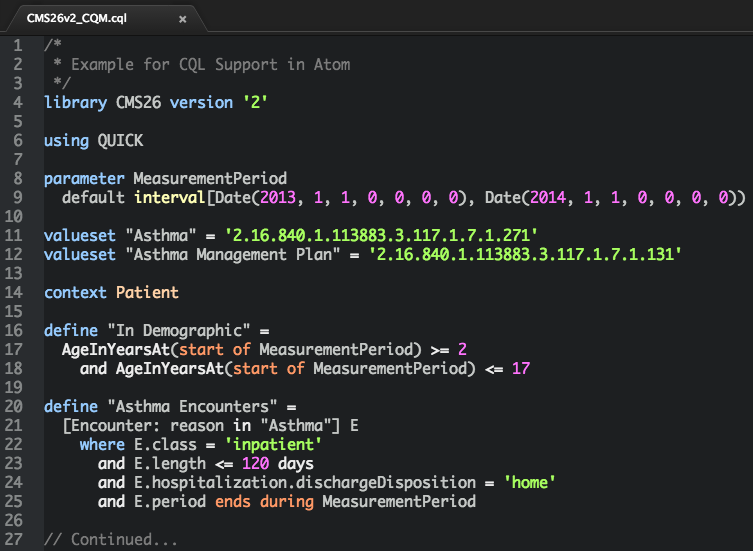
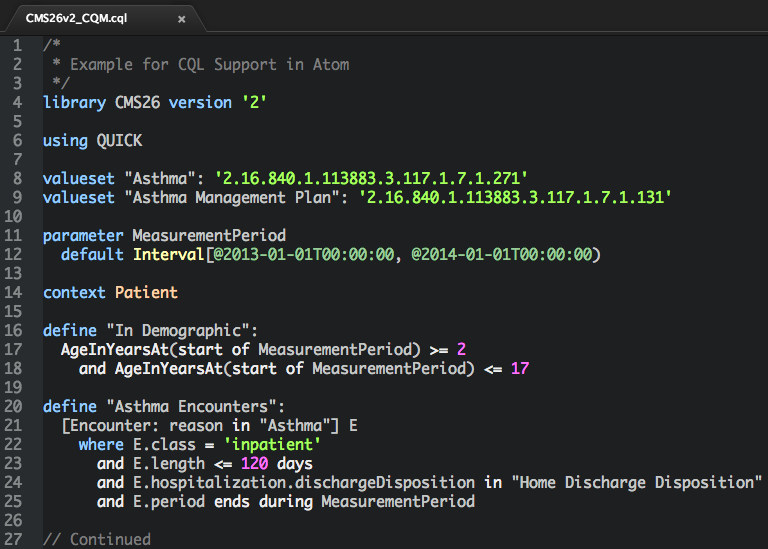
Update grammar for final CQL DSTU, new screenshot with proper grammar, rename stylesheets folder to styles

diff --git a/CHANGELOG.md b/CHANGELOG.md
@@ -1,2 +1,9 @@
+## 1.0.0 - Support for Clinical Quality Language DSTU
+* Updates to support the grammar of the final CQL DSTU publication
+* Fix deprecation warnings in Atom package structure
+## 0.1.1 - Bug Fixes
+* Fix syntax highlighting for AgeInX
+* Fix syntax highlighting for time units not in timing phrases
+* Update README with more information and a screenshot
 ## 0.1.0 - First Release
 * Inital support for CQL highlighting based on DSTU ballot specification

diff --git a/README.md b/README.md
@@ -34,7 +34,7 @@ electronic clinical quality measures (eCQM) and clinical decision support rules
 
 ## License
 
-Copyright 2014 The MITRE Corporation
+Copyright 2014 - 2015 The MITRE Corporation
 
 Licensed under the Apache License, Version 2.0 (the "License");
 you may not use this file except in compliance with the License.
